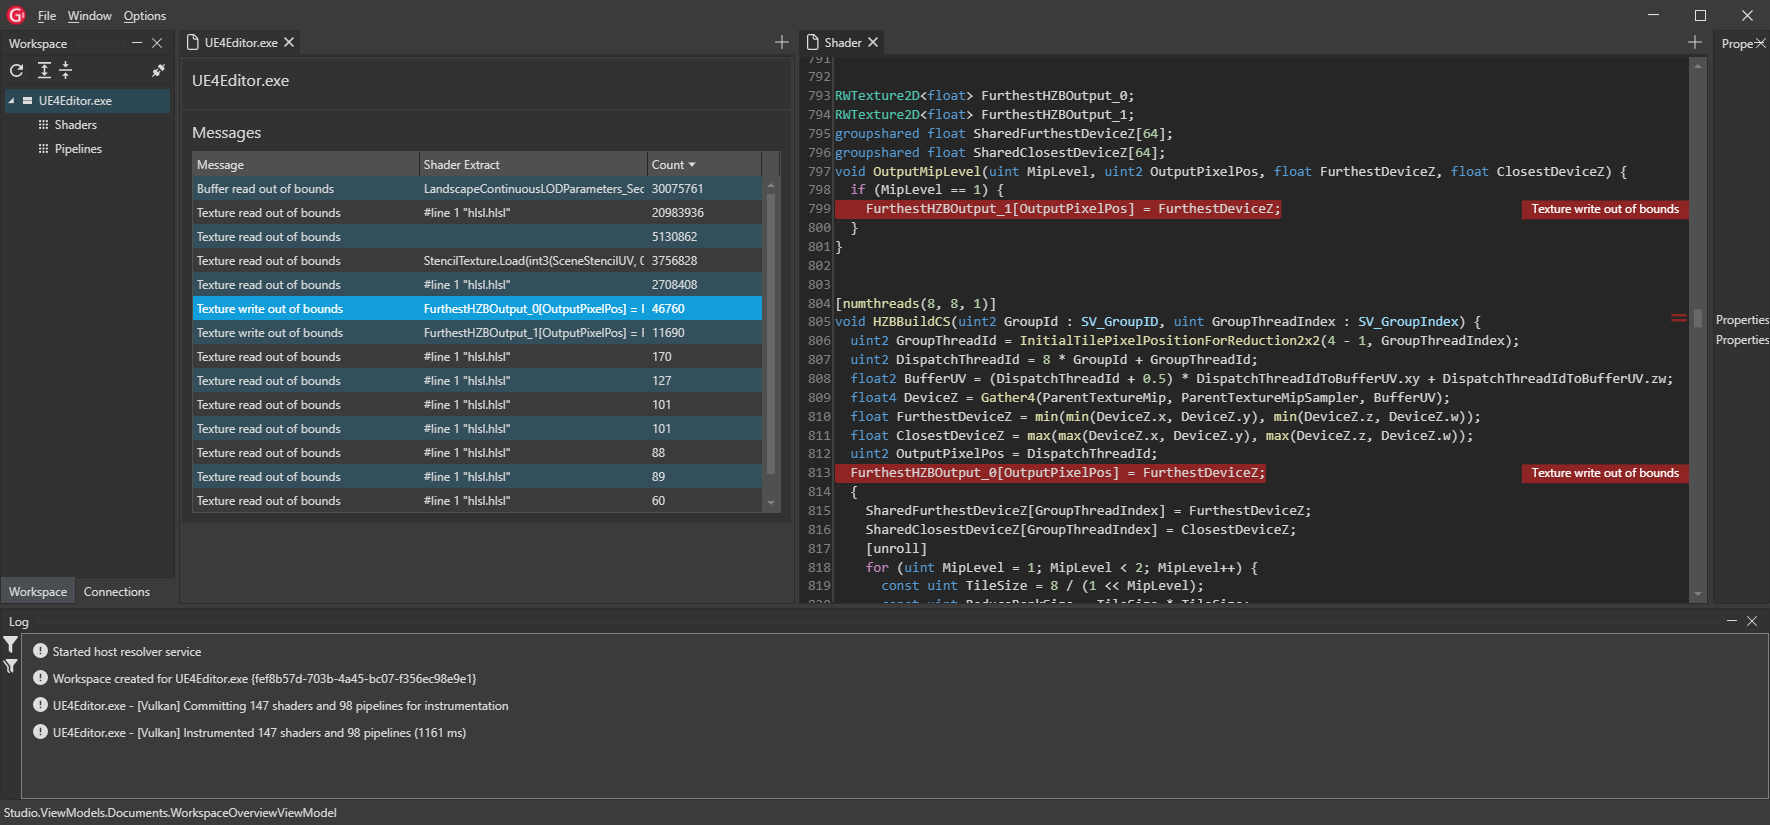
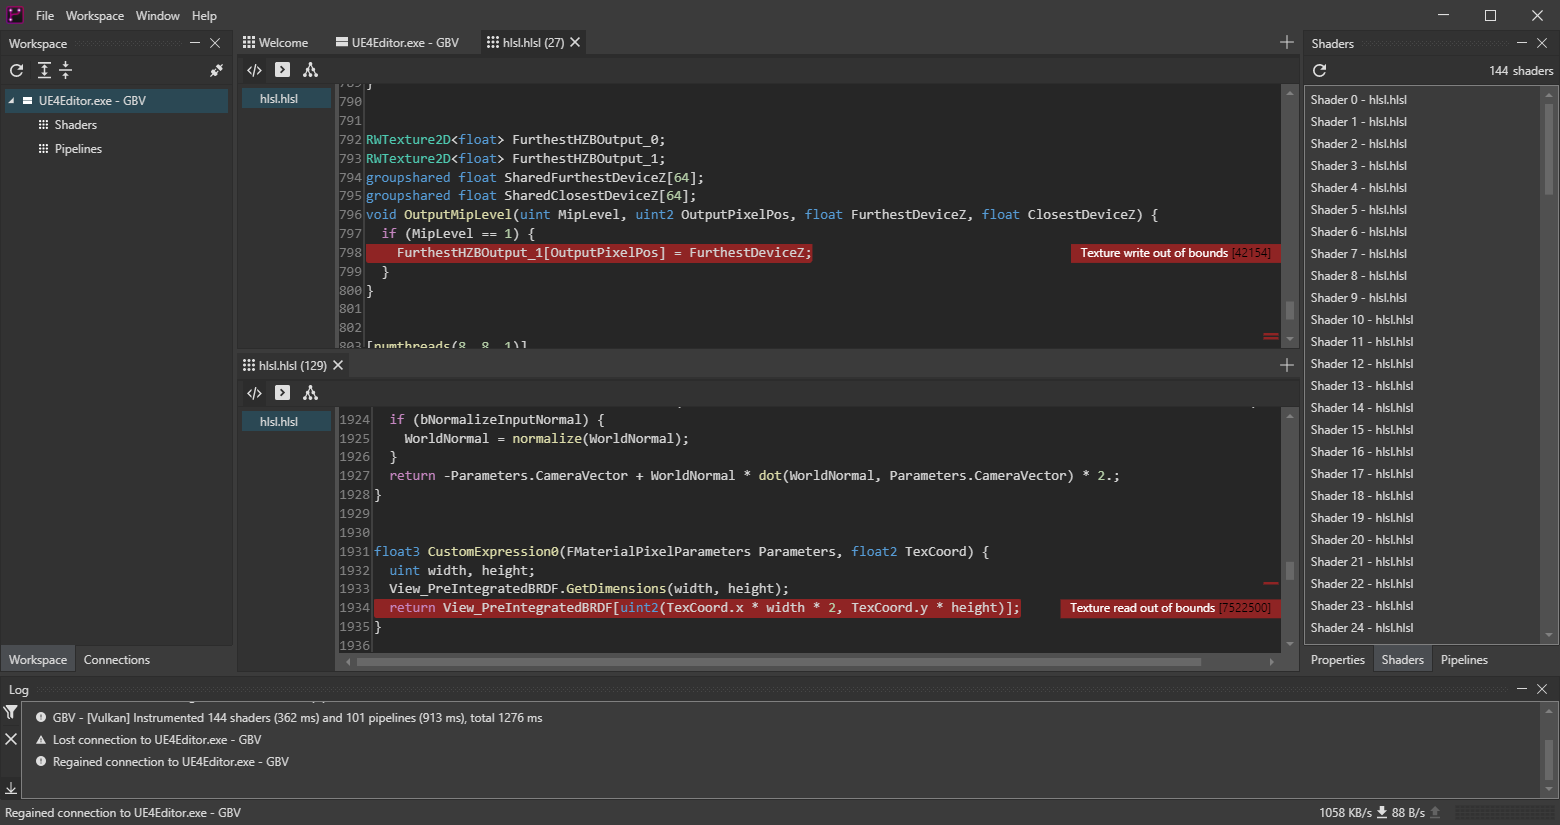
[Documentation] Updated ReadMe.md

diff --git a/ReadMe.md b/ReadMe.md
@@ -1,7 +1,8 @@
-# GPUOpen - GPU Based Validation
+<img style="float: left;" width="175" src="/Source/UIX/Studio/Resources/Icons/Icon_Frame.png">
 
-An open collaboration between AMD, Avalanche Studios and Miguel Petersen. \
-_( just example crediting, I'm sure there's a far more professional / official way to go about this! )_
+# GPU Reshape
+
+An open collaboration between **Miguel Petersen** (author), **Advanced Micro Devices** and **Avalanche Studios Group**.
 
 ---
 
@@ -15,59 +16,63 @@ _( just example crediting, I'm sure there's a far more professional / official w
 
 ---
 
-Sample screenshot showcasing early UIX development, demonstrating a functional 
-application stack to mature projects. **The UIX is less than a month old, functionality and visuals will improve drastically over time.**
+<p float="left">
+  <img src="/Documentation/Resources/Images/StudioC.png" width="450" /> 
+  <img src="/Documentation/Resources/Images/StudioB.png" width="450" />
+</p>
 
-![Studio Preview](Documentation/Resources/Images/StudioC.png)
+**GPU Reshape** offers API agnostic instrumentation of GPU side operations to perform, e.g., validation of potentially undefined behaviour, supporting both Vulkan and D3D12 (DXIL).
+No application side integration is required.
 
+Current feature scope provides instrumentation on operations which are either undefined behaviour, or typically indicative of user fault such as:
 
-## The life of a validation message
+- Validation on out-of-bounds resource reads / writes
+- Validation on out-of-bounds descriptor reads, and descriptor compatability testing
+- Validation of floating point exports (fragment, unordered access view) against NaN / Inf
+- Detection of potentially hazardous concurrent resource read / writes
+- Validation of resource initialization during reads
 
-### Connection
+The future feature scope includes profiling and debugging functionality, such as branch hot spots, live breakpoints, and assertions. 
+For the full planned feature set, see [Features](Documentation/Features.md).
 
-Any application using a supported API (Vulkan, DX12 *1) first attempts communication
-with the host resolver service. The host resolver service is responsible for general 
-discoverability and handshakes between clients and applications. If the host resolver service 
-cannot be found, an instance is started. Once connected, general application information is
-submitted such as the name, API and process ID.
+## Instrumentation as a framework
 
-The remote client, i.e. instance of the UIX above, connects to the host resolver at specified IP 
-(no restriction on endpoint) and preconfigured port. Once connected, the client requests all discovered
-applications on the target machine, and their associated metadata. Once an application has been selected,
-a connection request is sent to the host resolver.
+The toolset provides a generalized SSA-based intermediate language from which all instrumentation is done, bi-directionally translated to SPIRV and DXIL.
+Each feature, such as the validation of out-of-bounds reads, operates solely on the intermediate language and has no visibility on the backend language nor API.
 
-Upon receiving a connection request, the host resolver passes this to the respective application and requests
-that the client instantiates a local server. The application server is created on demand as to not
-pollute local ports. Once instantiated, the system allocated port is sent to the host resolver, which sends 
-the dedicated connection information back to the remote client.
+Each feature can alter the program as it sees fit, such as adding basic-blocks, modifying instructions, and even removing instructions. The feature is given a [Program](Documentation/API/IL.md), which
+act as the abstraction for the active backend, from which the user has access to all functions, basic-blocks, instructions, types, etc..., and is able to modify as necessary.
+After modification, the backend then performs just-in-time recompilation of the modified program back to the backend language.
 
-The remote client now holds a dedicated connection to the application.
+The toolset additionally provides a set of building blocks needed for instrumentation:
 
-(1) DX12 support is a work in progress
+- [Message Streams](Documentation/API/Message.md) help facilitate GPU -> CPU communication, and also serves as the base for inter-process/endpoint communication.
+- Persistent data such as buffers, textures and push / root constants, visible to all instrumentation features. Certain features require state management.
+- User programs, entirely user driven compute kernels written through the intermediate language. All persistent data visible.
+- User side command hooking, certain features may wish to modify state, invoke kernels, before the pending command.
+- Resource tokens, abstracting away differences in binding models by providing a token from shader resource handles. Each token provides a physical UID, resource type and sub-resource base.
+- (*, there's more, need to expand, and write documentation...)
 
-### Instrumentation
+Features do not need to concern themselves with backend specifics, such as vectorized versus scalarized execution, control-flow requirements, and other implementation details. Given compliance, each feature
+will translate seamlessly to the backend language.
 
-The remote client requests instrumentation of all pipelines / shaders by sending the respective messages to the application.
-Through the dedicated connection, all communication is performed through the language-agnostic messaging API. 
+This toolset aims to serve as a **framework** for instrumentation, acting as a modular base from which any number of tools, techniques, optimizations, etc..., can be implemented. 
 
-Once recieved, the application begins JIT recompilation of all affected shader modules and pipelines, through the API-agnostic bi-directional intermediate language.
-The instrumentation is entirely modularized, and operates solely on the mentioned intermediate language.
+## Credit
 
-Once the instrumentation request has completed, the backend pushes the instrumentation state for succeeding command buffers / lists.
-And performs all relevant state management.
+GPU Reshape was initially developed as a prototype tool by Miguel Petersen at Avalanche Studios Group, extending validation tools to shader side operations.
+It was then requested to continue development externally through an open collaboration on GPUOpen.
 
-Up-stream message (GPU to CPU) exporting on shader instrumentation failures is performed through the same
-agnostic messaging API. Due to the flat in-memory representation there is a zero deserialization cost, which in turn means that the
-up-stream messages can be streamed directly to the remote client without any processing.
+Development is lead by Miguel Petersen, with support by: (readme todo, support? sounds vague, collaborators? need to figure out the terminology for proper crediting)
 
-Upon validation errors, the GPU message stream is transferred over and submitted to all connected clients. Exact submission, segmentation,
-and compression policy is up to the respective backend.
+- Lou Kramer (AMD)
+- Jonas Gustavsson (AMD)
+- Daniel Isheden (Avalanche Studios)
+- Alexander Polya (Avalanche Studios)
+- Wiliam Hjelm (Avalanche Studios)
 
-### Metadata
-
-The remote client then requests numerous metadata requests, such as the active shaders, code within a shader, validation shader location lookups, etc...
-anything needed to create a respectable presentation of the application state.
-
-Everything passing through language boundaries (C++, C#), machine boundaries (networking), and even hardware boundaries (GPU, CPU)
-uses the same messaging API. Any created message is entirely compatible with any of the other receivers.
-Reading and writing to said messages is performed through auto-generated helpers, even for emitting messages through the intermediate language.
+Copyright © 2023 Miguel Petersen
+</br>
+Copyright © 2023 Advanced Micro Devices
+</br>
+Copyright © 2023 Avalanche Studios Group

diff --git a/Documentation/Features.md b/Documentation/Features.md
@@ -10,7 +10,7 @@ Status of all implemented and planned features.
 | Descriptor bounds            | Validation   | :heavy_check_mark: | :heavy_check_mark: |
 | Resource export stability    | Validation   | :heavy_check_mark: | :heavy_check_mark: |
 | Concurrency                  | Validation   | :heavy_check_mark: | :heavy_check_mark: |
-| Resource initialization      | Validation   | :heavy_check_mark: |                    |
+| Resource initialization      | Validation   | :heavy_check_mark: | :heavy_check_mark: |
 | Numeric & builtin stability  | Validation   |                    |                    |
 | Indirect parameters          | Validation   |                    |                    |
 | Direct Parameters            | Validation   |                    |                    |

diff --git a/Documentation/UIX.md b/Documentation/UIX.md
@@ -4,4 +4,4 @@ General documentation for the UIX.
 
 ___
 
-![Studio Preview](Resources/Images/StudioB.png)
+![Studio Preview](Resources/Images/StudioC.png)
